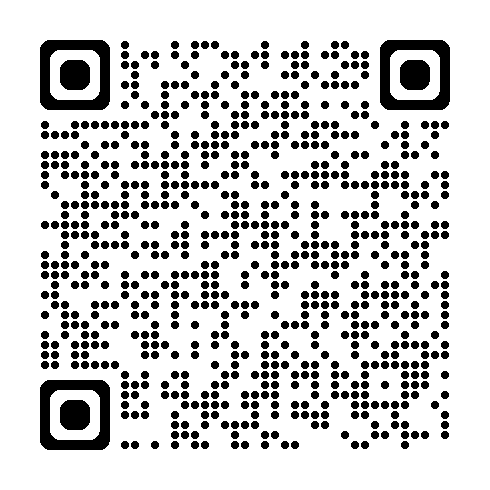
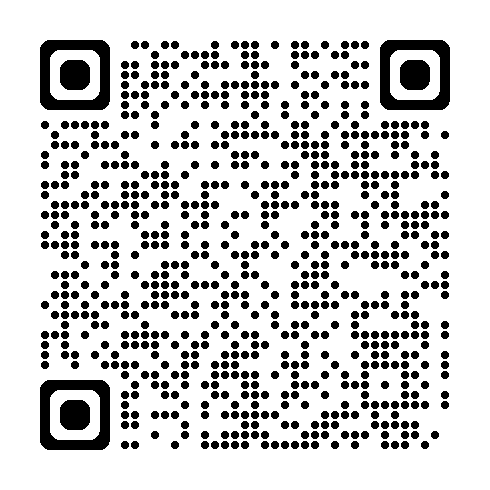
CHANGE: Update QR code link in presentation slides
- Changed the QR code URL to point to the new presentation link.

Changed region(s): [[0.0612, 0.0612, 0.9184, 0.9184]]

diff --git a/presentations/microsoft-iq-foundry-agent-best-practices/slides.md b/presentations/microsoft-iq-foundry-agent-best-practices/slides.md
@@ -16,7 +16,7 @@ canvasHeight: 720
 <div class="hero-shell">
   <div class="hero-qr-block">
     <img src="./images/presentation-qr-code.png" class="hero-qr" alt="Presentation QR code" />
-    <a href="https://github.com/PlagueHO/plagueho.learn" target="_blank" class="hero-qr-url">github.com/PlagueHO/plagueho.learn</a>
+    <a href="https://danielscottraynsford.com/plagueho.learn/microsoft-iq-foundry-agent-best-practices" target="_blank" class="hero-qr-url">danielscottraynsford.com/plagueho.learn/microsoft-iq-foundry-agent-best-practices</a>
   </div>
   <p class="eyebrow">Microsoft IQ · ReAct Loop · Foundry Agent Service · Airport Operations</p>
   <h1 class="hero-heading">From Chat<br />to Agents</h1>
